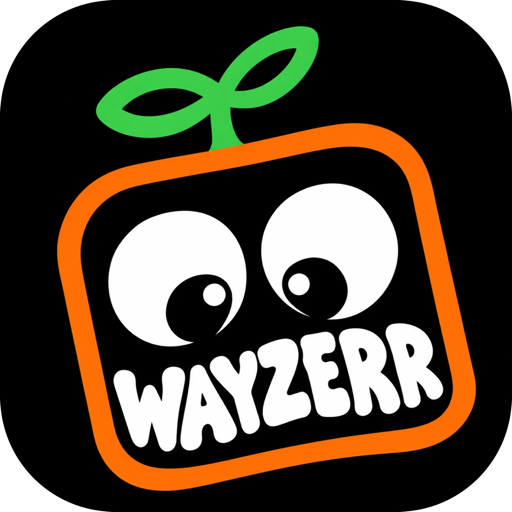
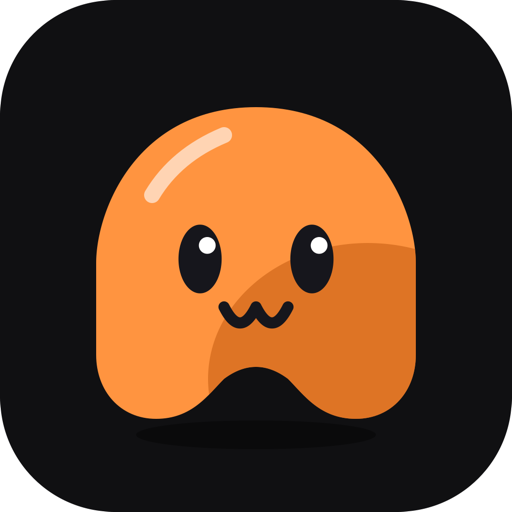
Wayzerr 1.3.42
Bots can build and run apps in the Files folder (every command asks first). Install skills and plugins by asking a bot. Connect Buffer. Better-looking bots, new light sign-in logo.

diff --git a/src/ai.js b/src/ai.js
@@ -124,6 +124,7 @@ function buildSystemPrompt(store, persona, group, userText = '', boosted = false
     !lite && !group && 'If a search or page fetch fails or finds nothing, or the task is to open a website, download, install, run or test something, do NOT give up and do NOT guess: load your computer or browser with tools_load and do it there. If one way fails, try the other. Never say you are using your computer or browser unless you really called its tools in this reply; if you did not, say plainly what you did instead.',
     !lite && 'Finish the whole task in one go: do every step yourself, then reply with what you did. Don\'t stop halfway to report, ask "shall I continue?" or ask for things you can do. Stop early only if you truly need the user (a login, a payment, a real choice).',
     !lite && 'Research fast: your built-in web search if you have one, otherwise web_search with several queries in ONE call, then web_read the best links (up to 20 at once). Never use the browser just to read.',
+    want('files') && 'Building things: when asked to make an app, site, script or tool, work in the Files folder like a developer. Write the files with files_write, run them with files_run (npm install, node, python, tests), read the errors, fix them and run again until it works. Then tell the user what you built, where it is and how to run it. Never say it works unless you ran it.',
     want('browser') && 'Browser: pages come back as text (what\'s on screen + buttons/fields with [id]); a screenshot only in drawn editors (Google Slides/Docs, canvases). Call browser_screenshot only when you must see the layout or a picture. Plan the steps, do them in ONE browser_do call, check the result, fix only what\'s wrong, then report (Google saves by itself). Click by the words ({"click":"Insert"}); click_at only for things without words. Edit text with browser_replace_text (or select, then type); set_box_text replaces a whole box; never press Backspace/Delete many times or type text twice. Long pages: browser_read with find, or part 2, 3…; browser_scroll works inside docs and PDFs. Google Slides/Docs: change words only with browser_replace_text (words that appear only there); type only into an empty placeholder you just double-clicked; new slide = Cmd+M, then double-click its placeholders; pictures via Insert → Image. Never delete slides unless asked. If something changes by mistake, press Cmd+Z and say so.',
     !lite && 'ask_options (tappable choices) only when you truly can\'t continue without the user picking between a few real alternatives (e.g. which of 3 files, classes or accounts — list the real names). Never for yes/no, confirmations, small talk or offers; at most one per reply; no "Other" option.',
     want('apps') && 'If a task needs an app (Gmail, Calendar, Drive, Docs, Sheets, Slack, Notion, WhatsApp, Instagram, Outlook…) that isn\'t connected, call apps_connect (it shows a Connect card). Never paste sign-in links or send the user to settings.',
@@ -343,6 +344,7 @@ function describeTool(name, args) {
     case 'ask_options': return { activity: 'waiting', text: 'Waiting for your answer', summary: 'Asked you a question' };
     case 'apps_connect': return { activity: 'working', text: `Asking you to connect ${args.app || 'an app'}`, summary: 'Asked you to connect an app' };
     case 'tools_load': return { activity: 'thinking', text: 'Getting the right tools', summary: '' };
+    case 'skill_install': return { activity: 'working', text: 'Installing a skill', summary: 'Installed a skill' };
     case 'skill_read': return { activity: 'reading', text: `Reading the ${args.name || ''} skill`, summary: 'Used a skill' };
     case 'image_create': return { activity: 'working', text: 'Making the picture', summary: 'Made a picture' };
     case 'memory_save': return { activity: 'remembering', text: 'Remembering', summary: 'Saved a memory' };
@@ -421,6 +423,7 @@ function neededGroups({ store, persona, ctx, group, text, srcNote, from }) {
   if (!viaBrowser(store) && appWords) need.add('apps');
   if (RE_TEAM.test(t) || (!group && isLeader(persona)) || (from && from.bot !== false)) need.add('team');
   if (RE_IMAGES.test(t)) need.add('images');
+  if (store.data.connectors.files?.enabled && /\b(app|apps|website|web ?site|webpage|script|program|code|coding|build|game|api|html|python|node|npm|react|software)\b/i.test(t)) need.add('files');
   if (RE_DESKTOP.test(t)) need.add('desktop');
   if (RE_COMPUTER.test(t) && !group && ctx?.desktop) need.add('computer');
   // What this chat used in the last half hour stays loaded (follow-ups like "now fix slide 3").
@@ -555,7 +558,7 @@ async function runTurn({ store, mcp, ctx, llm, persona, userText, attachments, f
   // In a group, your reply IS the group message: no browser, logins or team tools (no posting to the group you're already in).
   const toolEntries = collectTools(store, mcp, ctx).filter((t) => !group || (!['browser', 'logins'].includes(t.connectorKey) && !['groups_send', 'groups_list', 'bots_message'].includes(t.def.function.name)));
   const hasFiles = chat.some((m) => (m.attachments || []).some((a) => a.type === 'file'));
-  const allDefs = [...MEMORY_TOOLS, ...IMAGE_TOOLS, ...WEB_TOOLS, ...CHOICE_TOOLS, ...(hasFiles ? FILE_TOOLS : []), ...(skillList().length ? skills.SKILL_TOOLS : []), ...APPS_TOOLS, ...toolEntries.map((t) => t.def)];
+  const allDefs = [...MEMORY_TOOLS, ...IMAGE_TOOLS, ...WEB_TOOLS, ...CHOICE_TOOLS, ...(hasFiles ? FILE_TOOLS : []), ...(skillList().length ? skills.SKILL_TOOLS : []), ...skills.SKILL_INSTALL_TOOL, ...APPS_TOOLS, ...toolEntries.map((t) => t.def)];
   const byName = new Map(toolEntries.map((t) => [t.def.function.name, t]));
   const summaries = new Set();
   { const add = summaries.add.bind(summaries); summaries.add = (x) => (x ? add(x) : summaries); }
@@ -886,6 +889,20 @@ async function executeToolInner({ store, persona, name, args, byName, hooks, ctx
     const u = Array.isArray(args.urls) ? args.urls : [args.urls || args.url];
     return await web.read(u, args.find);
   }
+  if (name === 'skill_install') {
+    const src = String(args.source || '');
+    hooks.onEvent({ type: 'status', activity: 'waiting', text: 'Waiting for your OK to install' });
+    const answer = await hooks.askPermission({ connectorName: 'Skills and plugins', toolName: `install ${args.skill ? `"${args.skill}" from ` : ''}${src}`, args: { source: src, skill: args.skill || '' } });
+    if (answer === 'deny') return 'The user said no. Do not install it.';
+    try {
+      const r = await skills.installRepo(src, args.skill ? String(args.skill) : '');
+      let added = [];
+      if (r.servers.length && hooks.addServers) added = await hooks.addServers(r.servers);
+      return `Installed ${r.skills.length ? 'skills: ' + r.skills.join(', ') : 'no skills'}${added.length ? `; added connections (they ask before use): ${added.join(', ')}` : ''}. Load a skill with skill_read when a task needs it.`;
+    } catch (e) {
+      try { const names = await skills.install(`${src}${args.skill ? ' --skill ' + args.skill : ''}`); return `Installed: ${names.join(', ')}.`; } catch (e2) { return 'Error: ' + e.message; }
+    }
+  }
   if (name === 'skill_read') {
     const text = skills.read(String(args.name || ''), args.file);
     // A skill the user taught in the browser is done in the browser.
@@ -963,6 +980,11 @@ async function executeToolInner({ store, persona, name, args, byName, hooks, ctx
       ctx.mineOk = true;
     }
   } else
+  if (name === 'files_run') { // a command on the user's computer: asked EVERY time, never "always"
+    hooks.onEvent({ type: 'status', activity: 'waiting', text: 'Waiting for your OK to run a command' });
+    const answer = await hooks.askPermission({ connectorName: entry.connectorName, toolName: 'run: ' + String(args.command || '').slice(0, 300), args });
+    if (answer === 'deny') return 'The user did not allow that command. Do not retry it; say what you wanted to do and ask.';
+  } else
   if (getPermission(store, entry.connectorKey) !== 'always') {
     hooks.onEvent({ type: 'status', activity: 'waiting', text: `Waiting for your OK to use ${entry.connectorName}` });
     const answer = await hooks.askPermission({ connectorName: entry.connectorName, toolName: name, args });
@@ -990,7 +1012,7 @@ async function runAccountTurn({ store, ctx, llm, persona, chat, toolEntries, byN
     if (!t || t === lastSaid) return;
     if (say(t).length) { lastSaid = t; narrated = true; store.save(); hooks.onEvent({ type: 'message' }); }
   };
-  const allDefs = [...MEMORY_TOOLS, ...IMAGE_TOOLS, ...WEB_TOOLS, ...CHOICE_TOOLS, ...(chat.some((m) => (m.attachments || []).some((a) => a.type === 'file')) ? FILE_TOOLS : []), ...(skillList().length ? skills.SKILL_TOOLS : []), ...APPS_TOOLS, ...toolEntries.map((t) => t.def)];
+  const allDefs = [...MEMORY_TOOLS, ...IMAGE_TOOLS, ...WEB_TOOLS, ...CHOICE_TOOLS, ...(chat.some((m) => (m.attachments || []).some((a) => a.type === 'file')) ? FILE_TOOLS : []), ...(skillList().length ? skills.SKILL_TOOLS : []), ...skills.SKILL_INSTALL_TOOL, ...APPS_TOOLS, ...toolEntries.map((t) => t.def)];
   // Only the tools this cloud chat needs (+ tools_load / tool_run to reach the rest in this reply).
   const sent = tools ? (picked && !picked.all ? [...tools, RUN_TOOL] : tools) : allDefs;
   const defs = sent.map((d) => ({ name: d.function.name, description: d.function.description || '', inputSchema: d.function.parameters || { type: 'object', properties: {} } }));

diff --git a/src/main.js b/src/main.js
@@ -45,6 +45,10 @@ let win;
 let store;
 let vault;
 const mcp = new McpManager();
+// Apps Composio can't sign in for, but that run their own online MCP server with OAuth (sign in like Claude does).
+const OAUTH_APPS = { buffer: { name: 'Buffer', url: 'https://mcp.buffer.com/mcp' } };
+const oauthDeps = () => ({ enc, dec, save: () => store.save() });
+mcp.providerFor = (s) => require('./mcp-oauth').makeProvider(s, oauthDeps(), 'http://127.0.0.1/callback', null);
 const pendingPermissions = new Map();
 const running = new Map(); // personaId -> AbortController
 // Every bot gets its own browser (same logins, separate pages) so they never get in each other's way.
@@ -1045,6 +1049,16 @@ handle('skills-list', () => skills.list());
 handle('skills-install', async (cmd) => { await skills.install(cmd); return skills.list(); });
 handle('skills-remove', (id) => { skills.remove(id); return skills.list(); });
 handle('composio-link', async (toolkit) => {
+  const oa = OAUTH_APPS[String(toolkit || '').toLowerCase()];
+  if (oa) {
+    const list = store.data.customServers;
+    let s = list.find((x) => x.oauthApp === String(toolkit).toLowerCase());
+    if (!s) { s = { id: crypto.randomBytes(3).toString('hex'), name: oa.name, logo: '', url: oa.url, oauthApp: String(toolkit).toLowerCase(), permission: 'ask', enabled: true }; list.push(s); store.save(); }
+    await require('./mcp-oauth').signIn(s, oauthDeps(), (u) => shell.openExternal(u));
+    await connectServer(s);
+    pushState();
+    return null;
+  }
   if (!store.data.composio || !store.data.customServers.some((x) => x.composio)) await composioEnsure('');
   const c = store.data.composio;
   const j = hostedOn() ? await hostedFetch('/link/' + encodeURIComponent(c.sessionId), { method: 'POST', body: { toolkit } }) : await composioFetch(`/api/v3/tool_router/session/${encodeURIComponent(c.sessionId)}/link`, { toolkit }, composioKey());
@@ -1061,22 +1075,24 @@ handle('composio-search', async (q) => {
   if (!s) return local.slice(0, 8);
   try {
     const j = hostedOn() ? await hostedFetch(`/toolkits?search=${encodeURIComponent(s)}&limit=12`) : await composioFetch(`/api/v3/toolkits?search=${encodeURIComponent(s)}&limit=12`, null, composioKey());
-    const remote = (j.items || []).map((t) => ({ slug: String(t.slug || '').toLowerCase(), name: t.name || t.slug, description: t.meta?.description || '', logo: t.meta?.logo || '' })).filter((t) => t.slug);
+    // Apps whose sign-in Composio doesn't run for us (no managed auth, e.g. Buffer) can't be connected here: leave them out, so there is no dead "Connect".
+    const remote = (j.items || []).filter((t) => !hostedOn() || OAUTH_APPS[String(t.slug).toLowerCase()] || t.no_auth || !Array.isArray(t.composio_managed_auth_schemes) || t.composio_managed_auth_schemes.length).map((t) => ({ slug: String(t.slug || '').toLowerCase(), name: t.name || t.slug, description: t.meta?.description || '', logo: t.meta?.logo || '' })).filter((t) => t.slug);
     const seen = new Set();
     return [...local, ...remote].filter((a) => !seen.has(a.slug) && seen.add(a.slug))
       .sort((a, b) => (b.name.toLowerCase().startsWith(s) ? 1 : 0) - (a.name.toLowerCase().startsWith(s) ? 1 : 0)).slice(0, 8);
   } catch (_) { return local.slice(0, 8); }
 });
 // Which apps are connected right now (asks Composio; remembers the answer).
+const oauthLinked = () => store.data.customServers.filter((x) => x.oauthApp && mcp.status(x.id).connected).map((x) => x.oauthApp);
 async function composioLinkedNow() {
   const c = store.data.composio;
-  if (!c) return [];
+  if (!c) return oauthLinked();
   try {
     const j = hostedOn() ? await hostedFetch('/connected') : await composioFetch(`/api/v3/connected_accounts?user_ids=${encodeURIComponent(c.userId)}&statuses=ACTIVE&limit=100`, null, composioKey());
     const list = [...new Set((j.items || []).map((a) => a.toolkit?.slug || a.toolkit_slug || a.appName).filter(Boolean).map((x) => String(x).toLowerCase()))];
     store.data.composioLinked = list; store.save();
-    return list;
-  } catch (_) { return store.data.composioLinked || []; }
+    return [...list, ...oauthLinked()];
+  } catch (_) { return [...(store.data.composioLinked || []), ...oauthLinked()]; }
 }
 handle('composio-apps', () => composioLinkedNow());
 
@@ -1084,7 +1100,7 @@ handle('composio-apps', () => composioLinkedNow());
 const MASK = '\u2022\u2022\u2022\u2022';
 const maskVal = (v) => (v ? MASK + String(v).slice(-4) : '');
 const maskMap = (o) => (o && typeof o === 'object' ? Object.fromEntries(Object.entries(o).map(([k, v]) => [k, maskVal(v)])) : o);
-function maskServer(s) { return { ...s, env: maskMap(s.env), headers: maskMap(s.headers), apiKey: s.apiKey ? maskVal(s.apiKey) : s.apiKey }; }
+function maskServer(s) { return { ...s, oauth: s.oauth ? true : undefined, env: maskMap(s.env), headers: maskMap(s.headers), apiKey: s.apiKey ? maskVal(s.apiKey) : s.apiKey }; }
 function unmaskServer(s, old) {
   const keep = (v, prev) => (typeof v === 'string' && v.startsWith(MASK) ? prev : v);
   if (s.env && typeof s.env === 'object') s.env = Object.fromEntries(Object.entries(s.env).map(([k, v]) => [k, keep(v, old?.env?.[k])]).filter(([, v]) => v != null));
@@ -1410,6 +1426,15 @@ function runBotTurn(persona, text, { attachments, from, depth = 0, chatKey, grou
               pendingCards.set(req.cardId, { resolve, personaId: persona.id });
               ctl.signal.addEventListener('abort', () => { if (pendingCards.delete(req.cardId)) resolve({ cancel: true }); }, { once: true });
             })),
+          addServers: async (list) => {
+            const done = [];
+            for (const x of list) {
+              if (store.data.customServers.some((s) => (x.url && s.url === x.url) || (x.command && s.command === x.command && JSON.stringify(s.args || []) === JSON.stringify(x.args)))) continue;
+              const s = { id: crypto.randomBytes(3).toString('hex'), name: x.name, logo: '', permission: 'ask', enabled: true, ...(x.url ? { url: x.url, oauth: enc('{}') } : { command: x.command, args: x.args }) };
+              store.data.customServers.push(s); store.save(); connectServer(s).then(pushState).catch(() => {}); done.push(x.name);
+            }
+            return done;
+          },
           askPermission: (req) =>
             waitFor(new Promise((resolve) => {
               const requestId = crypto.randomBytes(6).toString('hex');

diff --git a/src/renderer/characters.js b/src/renderer/characters.js
@@ -75,13 +75,13 @@
         socket = `<circle cx="${x}" cy="${y}" r="9.4" fill="#fff"/>`;
         pupil = `<circle cx="${x + 0.6}" cy="${y + 0.6}" r="5" fill="#16161c"/><circle cx="${x + 2}" cy="${y - 1.4}" r="1.6" fill="#fff"/>`;
       } else if (style === 'ovals') {
-        pupil = `<ellipse cx="${x}" cy="${y}" rx="5.2" ry="8.4" fill="${ink}"/><circle cx="${x + 1.7}" cy="${y - 3.2}" r="2" fill="#fff"/>`;
+        pupil = `<ellipse cx="${x}" cy="${y}" rx="5.2" ry="8.4" fill="${ink}"/><circle cx="${x + 1.9}" cy="${y - 3.6}" r="2.3" fill="#fff"/><circle cx="${x - 1.6}" cy="${y + 4}" r="1" fill="#fff" opacity=".8"/>`;
       } else if (style === 'happy') {
         pupil = `<path d="M${x - 7} ${y + 4}Q${x} ${y - 7} ${x + 7} ${y + 4}" stroke="${ink}" stroke-width="4" fill="none" stroke-linecap="round"/>`;
       } else if (style === 'sleepy') {
         pupil = `<path d="M${x - 7} ${y - 1}Q${x} ${y + 7} ${x + 7} ${y - 1}" stroke="${ink}" stroke-width="4" fill="none" stroke-linecap="round"/>`;
       } else {
-        pupil = `<circle cx="${x}" cy="${y}" r="7" fill="${ink}"/><circle cx="${x + 2}" cy="${y - 2.4}" r="2.2" fill="#fff"/>`;
+        pupil = `<circle cx="${x}" cy="${y}" r="7" fill="${ink}"/><circle cx="${x + 2.1}" cy="${y - 2.6}" r="2.5" fill="#fff"/><circle cx="${x - 1.6}" cy="${y + 2.8}" r="1" fill="#fff" opacity=".8"/>`;
       }
       return `<g class="c-eye c-eye-${side}">${socket}<g class="c-pupil">${pupil}</g></g>`;
     };
@@ -287,18 +287,24 @@
       <span class="c-trail c-trail-a"></span><span class="c-trail c-trail-b"></span>
       <span class="c-3d"><span class="c-slab"></span>
       <svg class="c-front" style="overflow:visible" viewBox="0 0 100 100" width="${size}" height="${size}" aria-hidden="true">
-        <defs><clipPath id="${id}k">${bodyPath(ch.shape, '#000')}</clipPath></defs>
+        <defs><clipPath id="${id}k">${bodyPath(ch.shape, '#000')}</clipPath>
+          <radialGradient id="${id}l" cx=".3" cy=".22" r=".75"><stop offset="0" stop-color="#fff" stop-opacity=".42"/><stop offset=".55" stop-color="#fff" stop-opacity=".06"/><stop offset="1" stop-color="#fff" stop-opacity="0"/></radialGradient>
+          <radialGradient id="${id}d" cx=".72" cy=".9" r=".7"><stop offset="0" stop-color="${shade(base, -0.45)}" stop-opacity=".55"/><stop offset="1" stop-color="${shade(base, -0.45)}" stop-opacity="0"/></radialGradient></defs>
         <ellipse class="c-ground" cx="50" cy="95" rx="32" ry="4.5" fill="#000" opacity=".28"/>
         <g class="c-body"><g class="c-turn">
           ${opts.point != null ? armSvg(opts.point, base, id) : ''}
           ${bodyPath(ch.shape, base)}
           <g clip-path="url(#${id}k)">
-            <ellipse cx="78" cy="80" rx="40" ry="34" fill="${shade(base, -0.2)}" opacity=".55"/>
+            <rect width="100" height="100" fill="url(#${id}d)"/>
+            <rect width="100" height="100" fill="url(#${id}l)"/>
+            <ellipse cx="78" cy="80" rx="40" ry="34" fill="${shade(base, -0.2)}" opacity=".28"/>
+            <g class="c-edge">${bodyPath(ch.shape, 'none').replace(/fill="none"\/>/g, `fill="none" stroke="${shade(base, -0.35)}" stroke-opacity=".5" stroke-width="3"/>`)}</g>
             <path class="c-shine" d="${hl(ch.shape)}" stroke="#fff" stroke-opacity=".55" stroke-width="4" fill="none" stroke-linecap="round"/>
             <ellipse class="c-shade" cx="50" cy="55" rx="46" ry="46" fill="#000" opacity="0"/>
           </g>
           <g class="c-face"${opts.look ? ` transform="translate(${(opts.look[0] * 3).toFixed(2)} ${(opts.look[1] * 2).toFixed(2)})"` : ''}>
             <g class="c-eyes"${opts.look ? ` data-look="1"` : ''}>${opts.look ? eyesSvg(ch.eyes, g.eyeY, ink).replace(/<g class="c-pupil">/g, `<g class="c-pupil" transform="translate(${(opts.look[0] * 2.4).toFixed(2)} ${(opts.look[1] * 2.4).toFixed(2)})">`) : eyesSvg(ch.eyes, g.eyeY, ink)}</g>
+            <ellipse cx="25" cy="${g.eyeY + 12}" rx="6.5" ry="4" fill="#ff5d7d" opacity="${lum < 95 ? .28 : .34}"/><ellipse cx="75" cy="${g.eyeY + 12}" rx="6.5" ry="4" fill="#ff5d7d" opacity="${lum < 95 ? .28 : .34}"/>
             ${mouthSvg(ch.mouth, g.eyeY, ink)}
             ${FACEWEAR.has(ch.acc) ? accSvg(ch.acc, roundShape(ch.shape), g.eyeY, id) : ''}
           </g>

diff --git a/src/skills.js b/src/skills.js
@@ -103,6 +103,49 @@ function install(cmd) {
   });
 }
 
+// Install a whole Claude-style repo: every folder with a SKILL.md becomes a skill, and a plugin's .mcp.json servers are returned
+// (the caller adds them after the user approves). Works for skills, plugins and marketplaces alike. source: owner/repo[/subfolder] or a GitHub link.
+async function installRepo(source, only) {
+  let s = String(source || '').trim().replace(/^https?:\/\/github\.com\//i, '').replace(/\.git$/, '').replace(/\/$/, '');
+  const m = s.match(/^([\w.-]+)\/([\w.-]+)(?:\/tree\/[^/]+)?(?:\/(.+))?$/);
+  if (!m) throw new Error('Give a GitHub repo like owner/repo.');
+  const [, owner, repo, sub] = m;
+  const work = fs.mkdtempSync(path.join(os.tmpdir(), 'wayzerr-plugin-'));
+  try {
+    const r = await fetch(`https://codeload.github.com/${owner}/${repo}/tar.gz/HEAD`, { signal: AbortSignal.timeout(60000) });
+    if (!r.ok) throw new Error(`Couldn't download ${owner}/${repo} (${r.status}).`);
+    const buf = Buffer.from(await r.arrayBuffer());
+    if (buf.length > 60 * 1024 * 1024) throw new Error('That repo is too big to install.');
+    const tgz = path.join(work, 'r.tgz'); fs.writeFileSync(tgz, buf);
+    await new Promise((res, rej) => execFile('tar', ['-xzf', tgz, '-C', work], (e) => (e ? rej(new Error("Couldn't unpack it.")) : res())));
+    const root = fs.readdirSync(work).map((n) => path.join(work, n)).find((x) => fs.statSync(x).isDirectory());
+    const base = sub ? path.join(root, sub) : root;
+    if (!path.resolve(base).startsWith(root) || !fs.existsSync(base)) throw new Error('That folder is not in the repo.');
+    const found = [], servers = [];
+    const walk = (d, depth) => {
+      if (depth > 6) return;
+      for (const e of fs.readdirSync(d, { withFileTypes: true })) {
+        if (e.name === 'node_modules' || e.name === '.git') continue;
+        const f = path.join(d, e.name);
+        if (e.isDirectory()) { if (fs.existsSync(path.join(f, 'SKILL.md'))) found.push(f); else walk(f, depth + 1); }
+        else if (e.name === '.mcp.json') {
+          try { const j = JSON.parse(fs.readFileSync(f, 'utf8')); for (const [name, c] of Object.entries(j.mcpServers || j)) if (c && typeof c === 'object' && (c.url || c.command)) servers.push({ name, url: c.url || '', command: c.command || '', args: Array.isArray(c.args) ? c.args : [] }); } catch (_) {}
+        }
+      }
+    };
+    if (fs.existsSync(path.join(base, 'SKILL.md'))) found.push(base); else walk(base, 0);
+    const names = [];
+    for (const f of found) {
+      const n = path.basename(f).replace(/[^\w.-]/g, '-');
+      if (only && n !== only) continue;
+      if (!SAFE.test(n)) continue;
+      fs.rmSync(path.join(dir(), n), { recursive: true, force: true }); copyDir(f, path.join(dir(), n)); names.push(n);
+    }
+    if (!names.length && !servers.length) throw new Error('No skills or plugin connections found in that repo.');
+    return { skills: names, servers: only ? [] : servers.slice(0, 10) };
+  } finally { fs.rmSync(work, { recursive: true, force: true }); }
+}
+
 function remove(name) {
   if (!SAFE.test(name)) return;
   fs.rmSync(path.join(dir(), name), { recursive: true, force: true });
@@ -148,4 +191,13 @@ const SKILL_TOOLS = [{
   },
 }];
 
-module.exports = { seed, list, read, install, remove, parse, saveTaught, SKILL_TOOLS };
+const SKILL_INSTALL_TOOL = [{
+  type: 'function',
+  function: {
+    name: 'skill_install',
+    description: 'Install a skill OR a plugin (Claude-style: skills with SKILL.md, plus a plugin\'s connections) from GitHub when the user asks to install or add it. The user is asked to approve first. source is "owner/repo" or a GitHub link; skill is the skill\'s name inside that repo, if it has several.',
+    parameters: { type: 'object', properties: { source: { type: 'string', description: 'owner/repo or https GitHub URL' }, skill: { type: 'string', description: 'optional skill name inside the repo' } }, required: ['source'] },
+  },
+}];
+
+module.exports = { installRepo, SKILL_INSTALL_TOOL, seed, list, read, install, remove, parse, saveTaught, SKILL_TOOLS };

diff --git a/src/mcp-oauth.js b/src/mcp-oauth.js
@@ -1,0 +1,51 @@
+// "Sign in" for online MCP servers that use OAuth (like Buffer's): you approve in your browser, the app keeps the token
+// (encrypted) and refreshes it itself. Same flow Claude uses: dynamic client registration + PKCE.
+const http = require('http');
+
+// A provider the MCP SDK can use. Everything it must remember lives in server.oauth (one encrypted blob).
+function makeProvider(server, { enc, dec, save }, redirectUrl, onRedirect) {
+  const get = () => { try { return JSON.parse(dec(server.oauth) || '{}'); } catch (_) { return {}; } };
+  const put = (patch) => { server.oauth = enc(JSON.stringify({ ...get(), ...patch })); save(); };
+  return {
+    get redirectUrl() { return redirectUrl; },
+    get clientMetadata() { return { client_name: 'Wayzerr', redirect_uris: [redirectUrl], grant_types: ['authorization_code', 'refresh_token'], response_types: ['code'], token_endpoint_auth_method: 'none' }; },
+    clientInformation: () => get().client,
+    saveClientInformation: (c) => put({ client: c }),
+    tokens: () => get().tokens,
+    saveTokens: (t) => put({ tokens: t }),
+    saveCodeVerifier: (v) => put({ verifier: v }),
+    codeVerifier: () => get().verifier,
+    redirectToAuthorization: (u) => { if (onRedirect) onRedirect(u); else throw new Error('Sign in to this app again (it needs your approval).'); },
+    invalidateCredentials: (scope) => { const g = get(); if (scope === 'all') server.oauth = enc('{}'); else if (scope === 'tokens') put({ tokens: undefined }); else if (scope === 'client') put({ client: undefined }); save(); },
+  };
+}
+
+// Run the whole sign-in. Resolves when the token is saved; `openUrl` opens the browser.
+async function signIn(server, deps, openUrl) {
+  const { StreamableHTTPClientTransport } = require('@modelcontextprotocol/sdk/client/streamableHttp.js');
+  let resolveCode, rejectCode;
+  const codeP = new Promise((res, rej) => { resolveCode = res; rejectCode = rej; });
+  const srv = http.createServer((req, res) => {
+    const u = new URL(req.url, 'http://127.0.0.1');
+    if (u.pathname !== '/callback') { res.writeHead(404); return res.end(); }
+    const code = u.searchParams.get('code'), err = u.searchParams.get('error');
+    res.writeHead(200, { 'content-type': 'text/html; charset=utf-8' });
+    res.end(`<!doctype html><meta charset="utf-8"><title>Wayzerr</title><body style="font:16px system-ui;background:#161616;color:#eee;display:grid;place-items:center;height:100vh;margin:0"><div>${code ? 'Connected. You can close this tab and go back to Wayzerr.' : 'Sign-in was cancelled. You can close this tab.'}</div>`);
+    if (code) resolveCode(code); else rejectCode(new Error(err ? `Sign-in refused: ${err}` : 'Sign-in was cancelled.'));
+  });
+  await new Promise((r) => srv.listen(0, '127.0.0.1', r));
+  const redirectUrl = `http://127.0.0.1:${srv.address().port}/callback`;
+  const timer = setTimeout(() => rejectCode(new Error('Sign-in took too long. Try again.')), 5 * 60 * 1000);
+  try {
+    const provider = makeProvider(server, deps, redirectUrl, (u) => openUrl(String(u)));
+    const t = new StreamableHTTPClientTransport(new URL(server.url), { authProvider: provider });
+    const { Client } = require('@modelcontextprotocol/sdk/client/index.js');
+    const c = new Client({ name: 'wayzerr-app', version: '1.0.0' });
+    try { await c.connect(t); try { await c.close(); } catch (_) {} return; } // already signed in
+    catch (e) { if (!/unauthorized/i.test(e.name + e.message)) throw e; }
+    const code = await codeP;
+    await t.finishAuth(code);
+  } finally { clearTimeout(timer); srv.close(); }
+}
+
+module.exports = { makeProvider, signIn };

diff --git a/src/connectors.js b/src/connectors.js
@@ -53,6 +53,10 @@ const BUILTIN = {
         subpath: { type: 'string', description: 'Relative path of the file' },
         content: { type: 'string', description: 'Full text content' },
       }, ['subpath', 'content']),
+      tool('files_run', 'Run a shell command inside the allowed folder (npm install, node app.js, python, git, tests, builds…). The user approves every command. Use it to build and test apps you write there. Returns the output and exit code.', {
+        command: { type: 'string', description: 'The shell command' },
+        timeout_seconds: { type: 'number', description: 'Optional, up to 300 (default 120)' },
+      }, ['command']),
       tool('files_search', 'Find files whose name contains the query (searches subfolders).', {
         query: { type: 'string' },
       }, ['query']),
@@ -171,6 +175,16 @@ async function runBuiltin(store, toolName, args, ctx) {
       fs.writeFileSync(f, args.content ?? '');
       return `Saved ${args.subpath}`;
     }
+    case 'files_run': {
+      const cwd = safeJoin(c.files.folder, '');
+      const { connectorEnv } = require('./runtime');
+      const secs = Math.min(300, Math.max(5, Number(args.timeout_seconds) || 120));
+      return await new Promise((res) => execFile('/bin/sh', ['-c', String(args.command || '')], { cwd, env: connectorEnv({}), timeout: secs * 1000, maxBuffer: 4 << 20 }, (err, so, se) => {
+        const out = (String(so || '') + (se ? '\n[errors]\n' + se : '')).trim();
+        const cut = out.length > 12000 ? out.slice(0, 5000) + '\n…(cut)…\n' + out.slice(-6000) : out;
+        res(`${cut || '(no output)'}\n[exit ${err ? (err.killed ? 'timed out after ' + secs + 's' : err.code ?? 1) : 0}]`);
+      }));
+    }
     case 'files_search': {
       const root = safeJoin(c.files.folder, '');
       const q = String(args.query || '').toLowerCase();
@@ -266,7 +280,7 @@ class McpManager {
         const url = new URL(server.url);
         try {
           const { StreamableHTTPClientTransport } = require('@modelcontextprotocol/sdk/client/streamableHttp.js');
-          await client.connect(new StreamableHTTPClientTransport(url, { requestInit: { headers } }));
+          await client.connect(new StreamableHTTPClientTransport(url, { requestInit: { headers }, ...(server.oauth && this.providerFor ? { authProvider: this.providerFor(server) } : {}) }));
         } catch (e) {
           const { SSEClientTransport } = require('@modelcontextprotocol/sdk/client/sse.js');
           const c2 = new Client({ name: 'wayzerr-app', version: '1.0.0' });

diff --git a/src/renderer/app.js b/src/renderer/app.js
@@ -79,7 +79,7 @@ const I = {
   connectors: '<circle cx="12" cy="12" r="2.6"/><circle cx="12" cy="4" r="1.8"/><circle cx="19.5" cy="16.5" r="1.8"/><circle cx="4.5" cy="16.5" r="1.8"/><path d="M12 5.8v3.6M13.9 13.6l3.9 2.1M10.1 13.6l-3.9 2.1"/>',
   phone: '<rect x="7" y="2.5" width="10" height="19" rx="2.5"/><path d="M11 18.5h2"/>',
   info: '<circle cx="12" cy="12" r="9"/><path d="M12 11v5M12 8h.01"/>',
-  puzzle: '<path d="M6 5h4a2.2 2.2 0 1 1 4 0h4a1 1 0 0 1 1 1v4a2.2 2.2 0 1 1 0 4v4a1 1 0 0 1-1 1h-4a2.2 2.2 0 1 0-4 0H6a1 1 0 0 1-1-1v-4a2.2 2.2 0 1 0 0-4V6a1 1 0 0 1 1-1z"/>',
+  puzzle: '<path d="M6 9h3.5a2.5 2.5 0 1 1 5 0H18a1 1 0 0 1 1 1v8a1 1 0 0 1-1 1H6a1 1 0 0 1-1-1v-8a1 1 0 0 1 1-1z"/>',
   download: '<path d="M12 4v11M7 10l5 5 5-5M5 20h14"/>',
   cookie: '<path d="M12 3a9 9 0 1 0 9 9 3 3 0 0 1-3-3 3 3 0 0 1-3-3 3 3 0 0 1-3-3z"/><circle cx="9" cy="10" r="1"/><circle cx="14" cy="15" r="1"/><circle cx="9" cy="15" r="1"/>',
   key: '<circle cx="8" cy="15" r="4"/><path d="m11 12 9-9M17 6l3 3M15 8l2 2"/>',

diff --git a/src/renderer/index.html b/src/renderer/index.html
@@ -23,8 +23,8 @@
         <button class="nav-item" id="btn-schedule" title="Things your bots do on a schedule"></button>
         <button class="nav-item" id="btn-apps" title="Your connected apps"></button>
         <div class="nav-row">
-          <button class="nav-item" id="btn-connectors">Settings</button>
           <button class="me" id="btn-me" title="Account"></button>
+          <button class="nav-item" id="btn-connectors">Settings</button>
         </div>
       </div>
     </aside>
